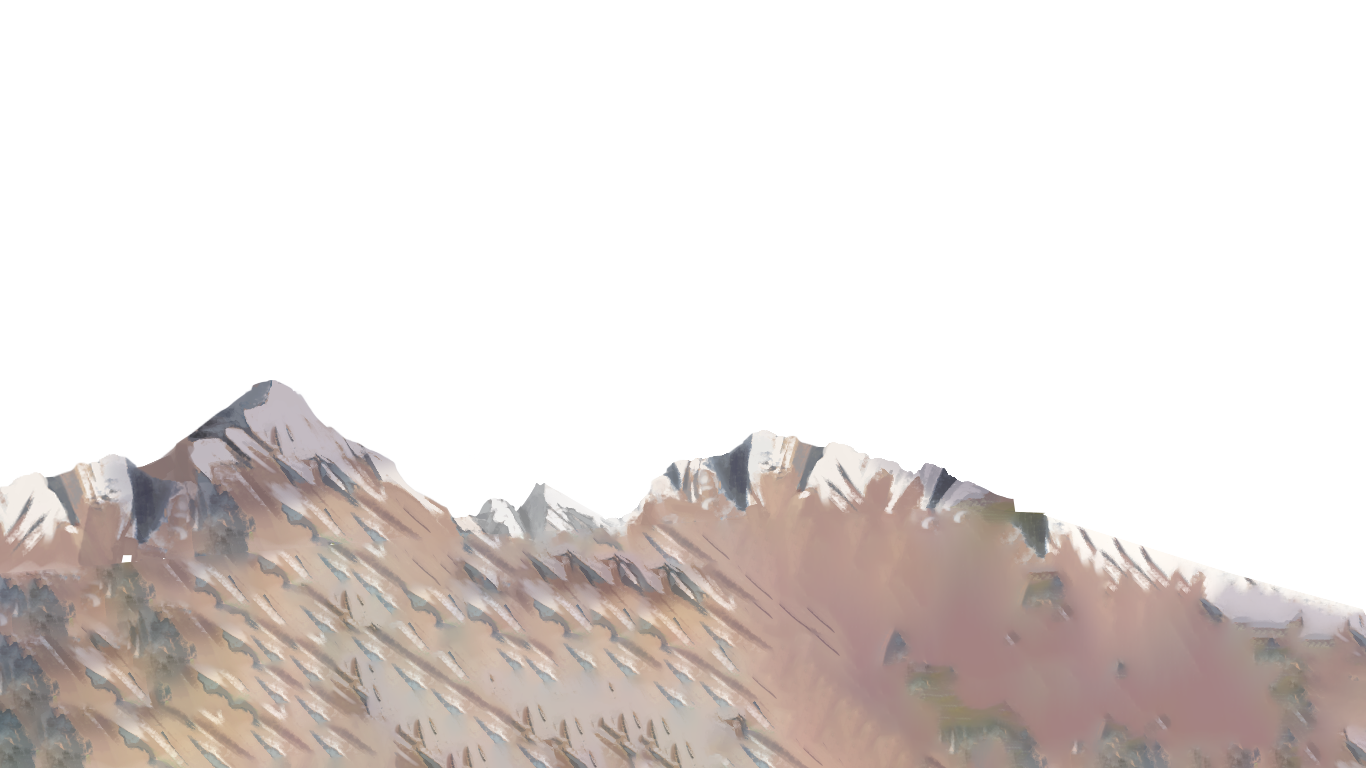
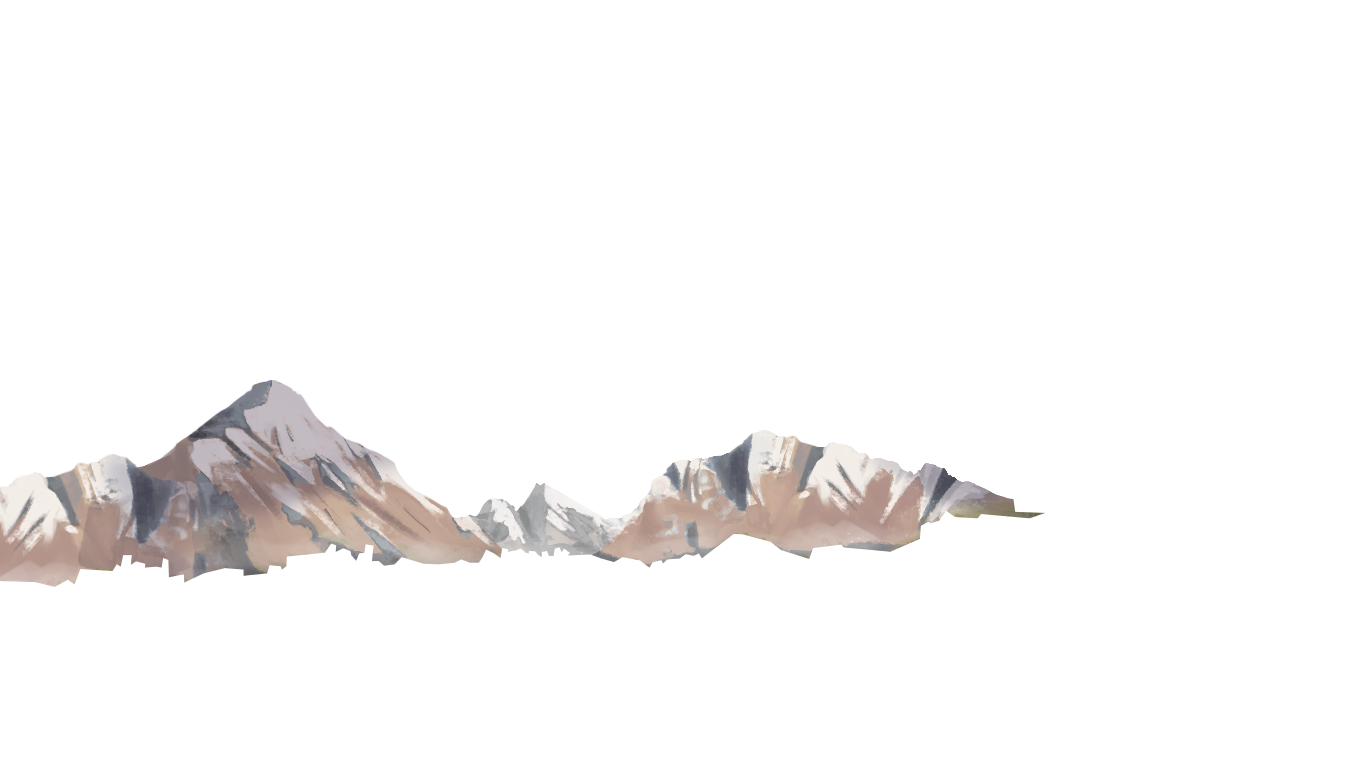
modified:   img/mountain.png 	modified:   js/main.js

Changed region(s): [[0.0, 0.6562, 1.0, 1.0]]

diff --git a/js/main.js b/js/main.js
@@ -72,16 +72,17 @@ $(document).ready(function () {
       $("#dummy").css("transform", `rotate(${newVal * 0.05}deg)`);
       if (newVal >= 0) {
         $("#cloud1").css({
-          // left: `${newVal * -0.05}px`,
-          top: `${newVal * -0.1}px`,
+          left: `${newVal * -0.05}px`,
+          top: `${newVal * 0.3}px`,
         });
 
         $("#cloud2").css({
-          // left: `${newVal * -0.17}px`,
-          top: `${newVal * -0.1}px`,
+          left: `${newVal * 0.15}px`,
+          top: `${newVal * 0.3}px`,
         });
 
-        $("#ground").css("top", `${newVal * 0.13}px`);
+        $("#mountain").css("top", `${newVal * 0.3}px`);
+        $("#ground").css("top", `${newVal * 0.2}px`);
         $("#hill-tree").css({
           top: `${newVal * 0.1}px`,
           left: `${newVal * -0.05}px`,
